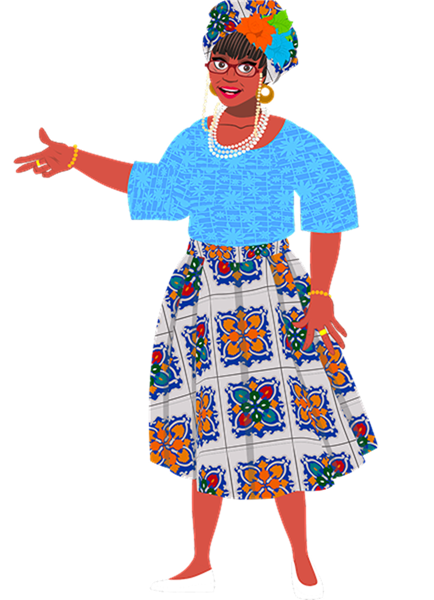
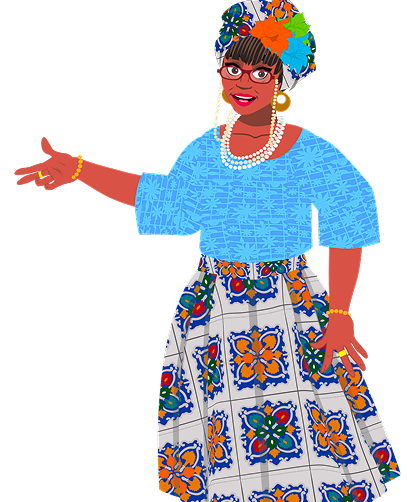
Refactor code structure for improved readability and maintainability

diff --git a/src/components/tutorial/Tutorial.tsx b/src/components/tutorial/Tutorial.tsx
@@ -1,7 +1,3 @@
-import {
-  HeaderTailwindClasses,
-  ParagraphTailwindClasses,
-} from '@/common/constants/constants';
 import { useEffect, useState } from 'react';
 import { characterPositions, textPositions } from './constants';
 import {
@@ -200,7 +196,7 @@ export default function Tutorial({ isOpen, steps, onFinish }: Props) {
                 zIndex: 9999,
                 width: getCharacterWidth(breakpoint),
               }}
-              className="py-4"
+              className="pt-4"
             />
           )}
 
@@ -209,23 +205,21 @@ export default function Tutorial({ isOpen, steps, onFinish }: Props) {
             style={{
               width: getSpeechBubbleWidth(breakpoint),
               background: 'white',
-              borderRadius: 12,
-              padding: 20,
+              borderRadius: 8,
+              padding: 12,
               zIndex: 10000,
               textAlign: 'center',
               fontSize: getSpeechBubbleFontSize(breakpoint),
               height: 'fit-content',
             }}
           >
-            {step.title && (
-              <h3 className={`${ParagraphTailwindClasses} pb-4 font-bold`}>{step.title}</h3>
-            )}
+            {step.title && <h3 className={`pb-4 font-bold`}>{step.title}</h3>}
 
-            <p className={`${ParagraphTailwindClasses}`}>{step.content}</p>
+            <p>{step.content}</p>
 
             {!step.highlight?.action || step.highlight.action === 'none' ? (
               <button
-                className={`bg-blue-500 text-white px-4 py-2 rounded mt-4 hover:cursor-pointer ${ParagraphTailwindClasses}`}
+                className={`bg-blue-500 text-white px-4 py-2 rounded mt-4 hover:cursor-pointer`}
                 onClick={next}
               >
                 {step.actionButtonText ?? 'Continue'}
@@ -236,28 +230,23 @@ export default function Tutorial({ isOpen, steps, onFinish }: Props) {
       ) : (
         <div
           style={{
-            position: 'fixed',
             width: getSpeechBubbleWidth(breakpoint),
             background: 'white',
-            borderRadius: 12,
-            padding: 20,
+            borderRadius: 8,
+            padding: 12,
             zIndex: 10000,
             textAlign: 'center',
-            display: 'flex',
-            flexDirection: 'column',
-            left: textPositions[step.textPlacement ?? 'bottom'].left,
-            top: textPositions[step.textPlacement ?? 'bottom'].top,
+            fontSize: getSpeechBubbleFontSize(breakpoint),
+            height: 'fit-content',
           }}
         >
-          {step.title && (
-            <h3 className={HeaderTailwindClasses}>{step.title}</h3>
-          )}
+          {step.title && <h3 className={`pb-4 font-bold`}>{step.title}</h3>}
 
-          <p className={ParagraphTailwindClasses}>{step.content}</p>
+          <p>{step.content}</p>
 
           {!step.highlight?.action || step.highlight.action === 'none' ? (
             <button
-              className={`bg-blue-500 text-white px-4 py-2 rounded mt-4 hover:cursor-pointer ${ParagraphTailwindClasses}`}
+              className={`bg-blue-500 text-white px-4 py-2 rounded mt-4 hover:cursor-pointer`}
               onClick={next}
             >
               {step.actionButtonText ?? 'Continue'}

diff --git a/src/assets/index.ts b/src/assets/index.ts
@@ -1,4 +1,4 @@
-import gHandOnWaist from '@/assets/grandmawura-hand-on-waist.png';
+import gHandOnWaist from '@/assets/grandmawura-center.png';
 import gPointLeft from '@/assets/grandmawura-point-left.png';
 import gPointRight from '@/assets/grandmawura-point-right.png';
 import gPointUp from '@/assets/grandmawura-point-up.png';